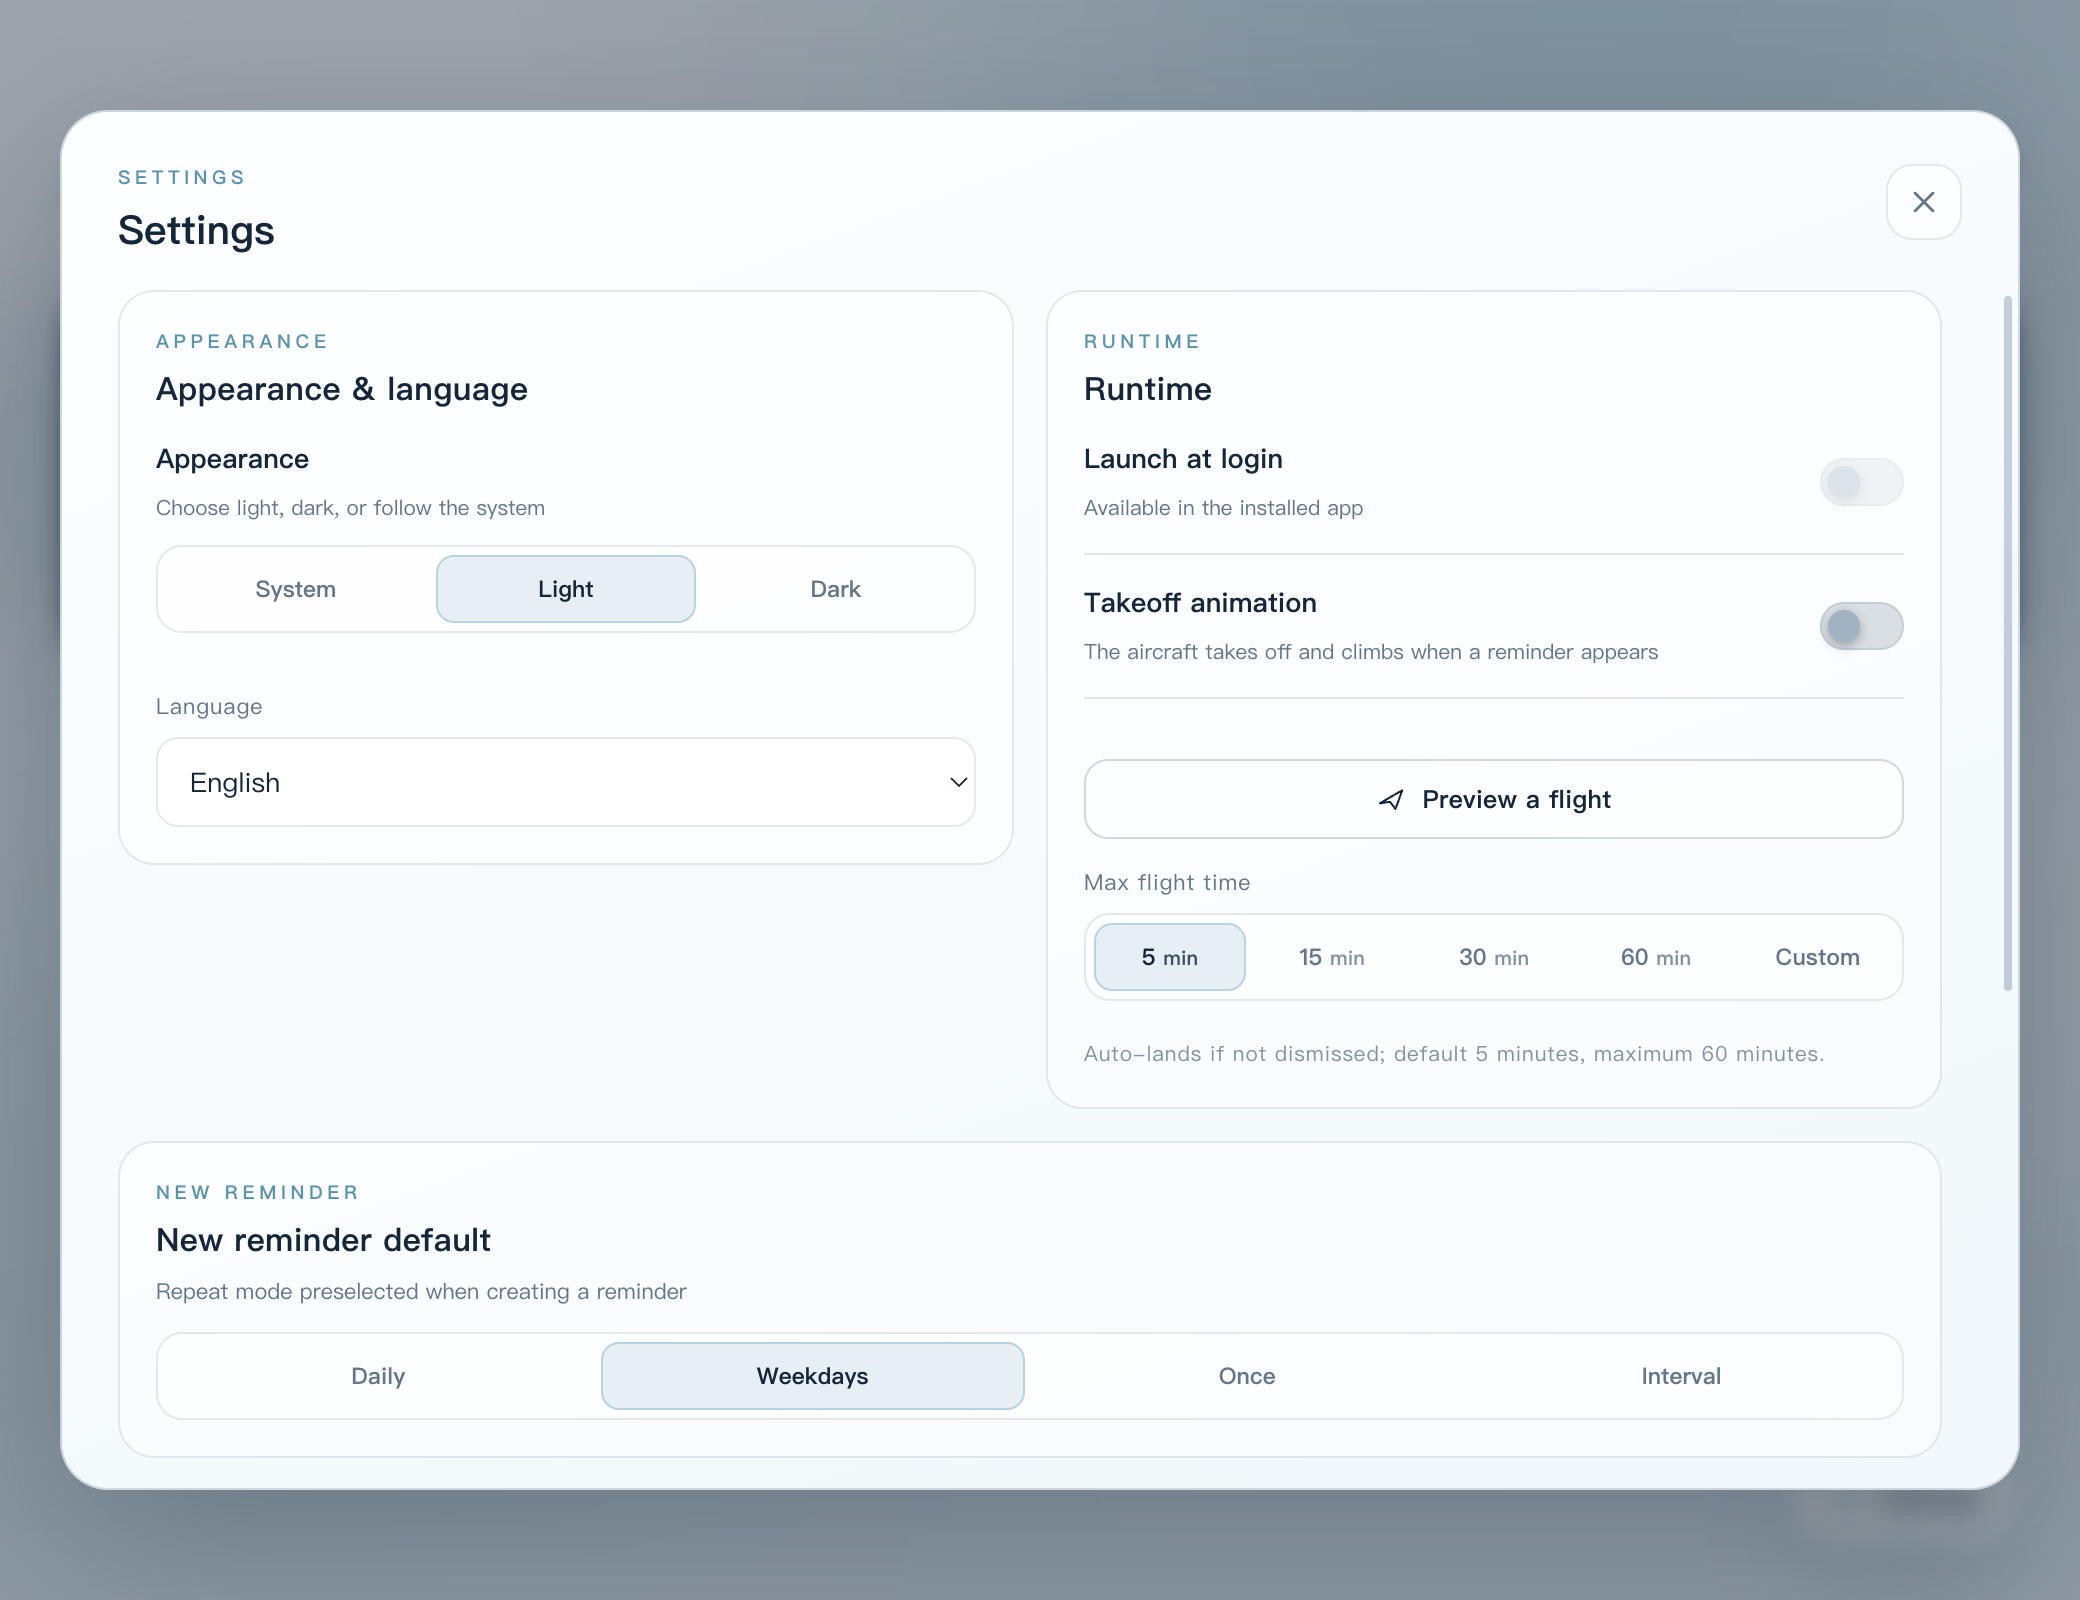
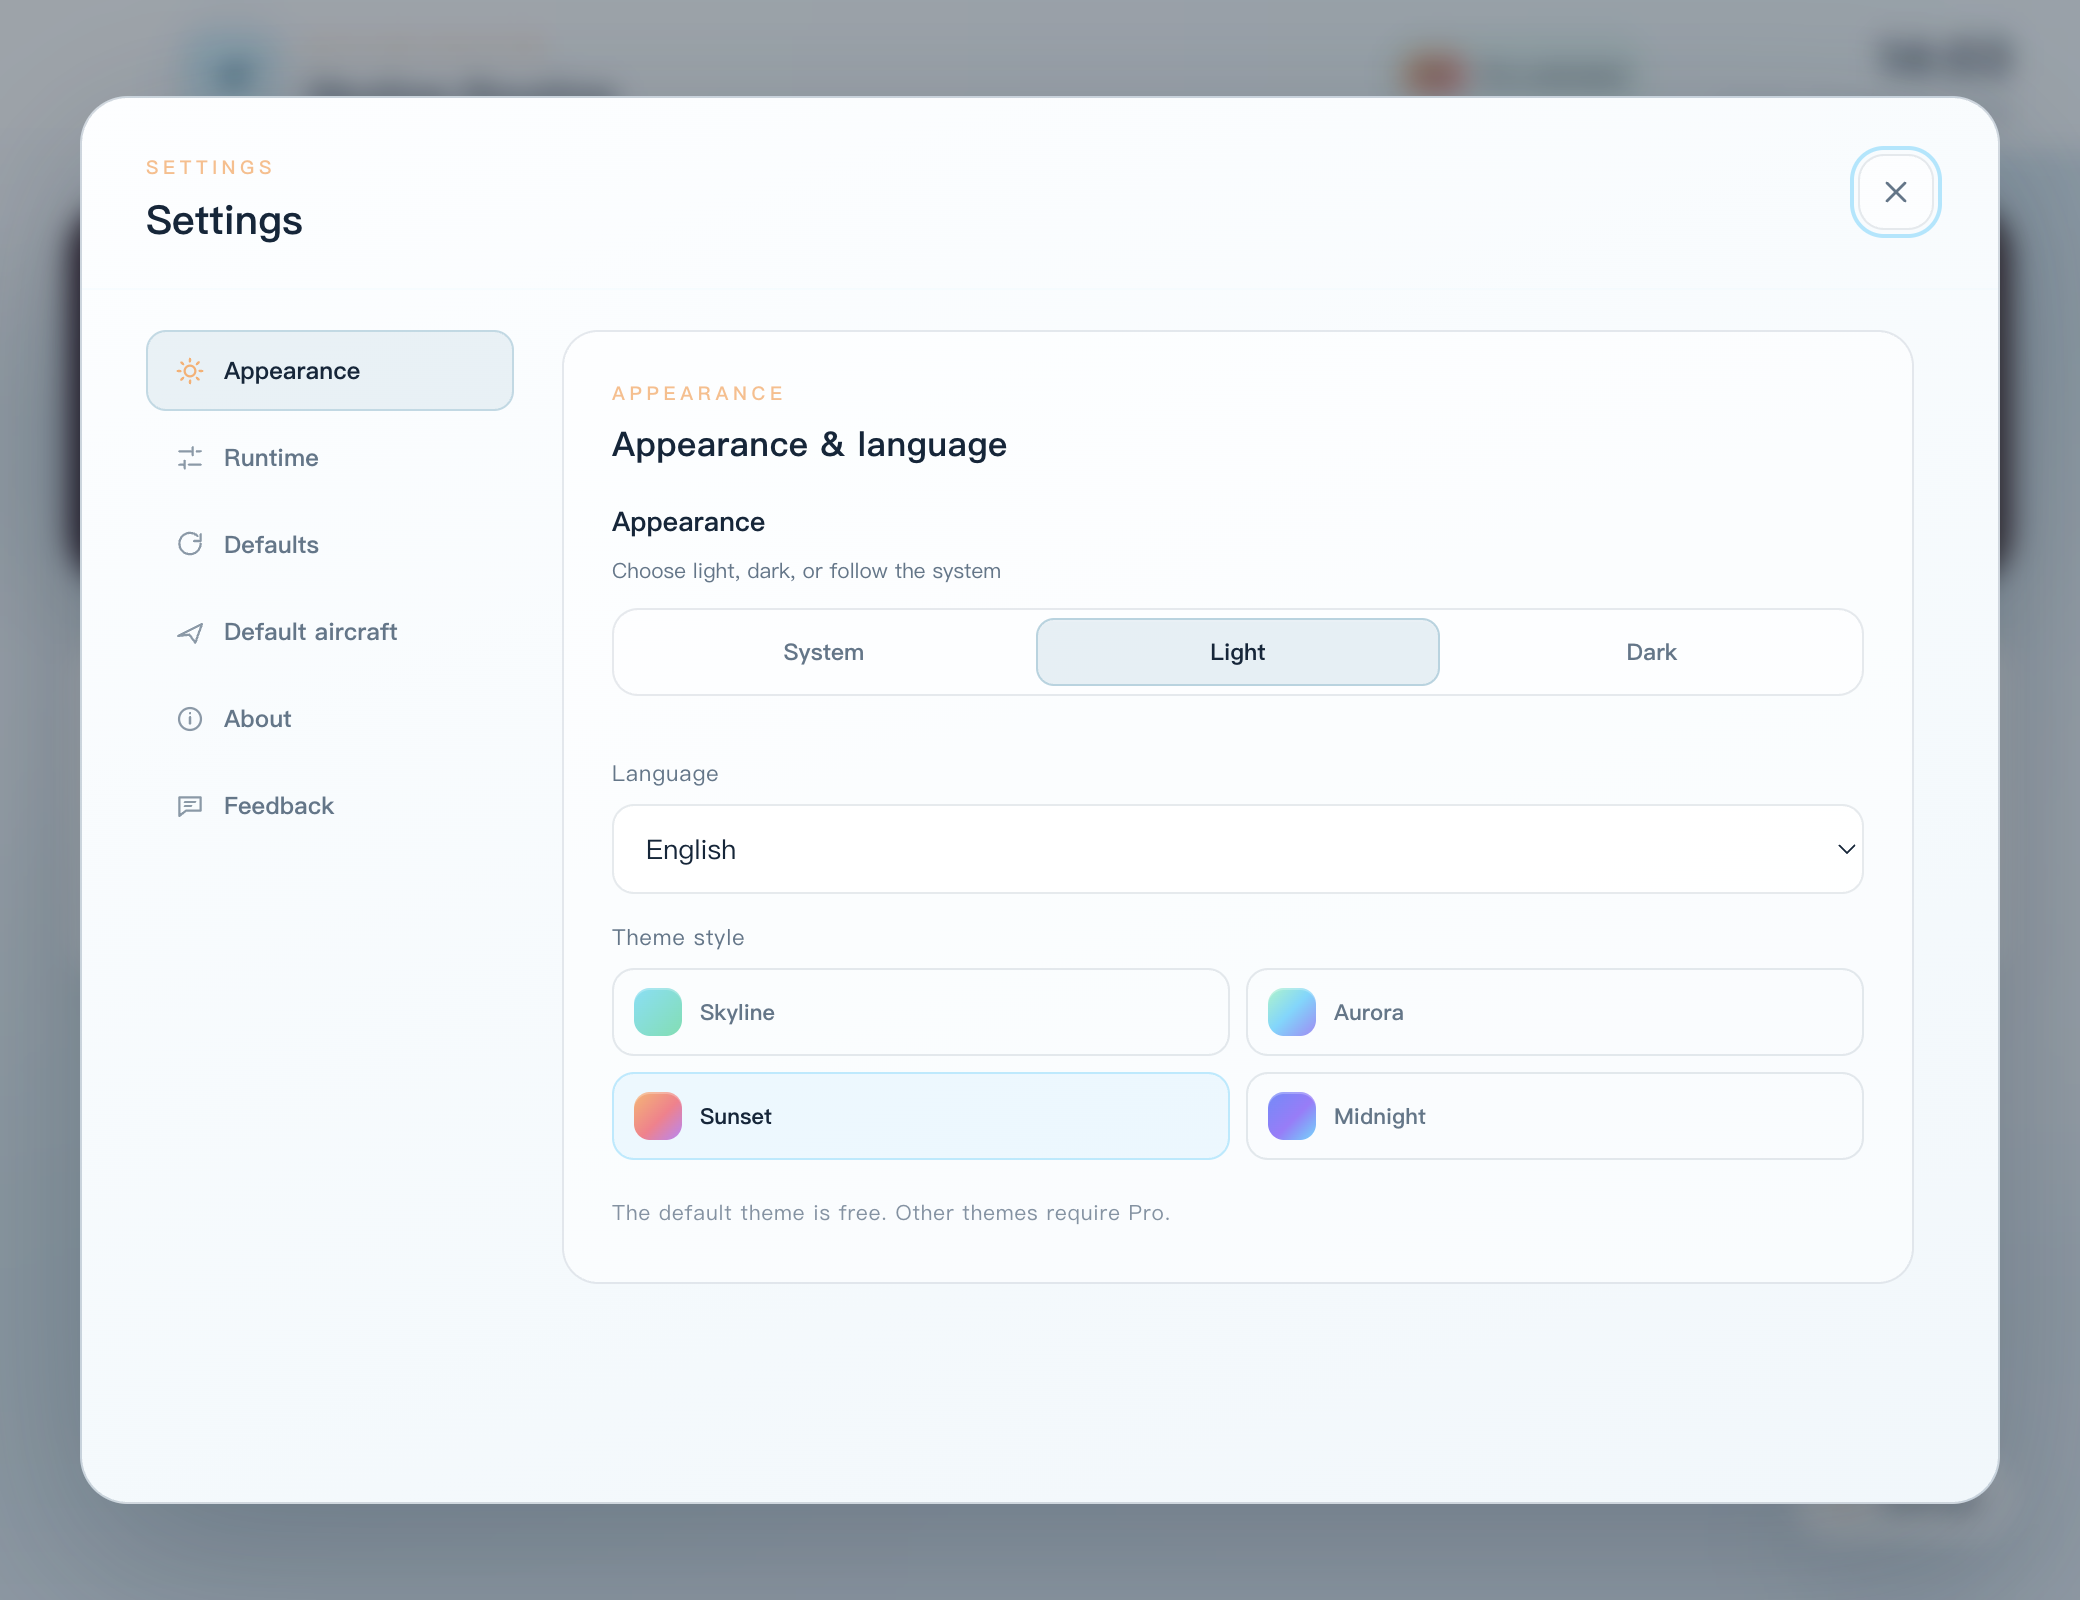
【mod】文档说明修改

diff --git a/index.html b/index.html
@@ -109,7 +109,7 @@
         <article class="feature-card">
           <span class="feature-number">03</span>
           <h2>Make it yours</h2>
-          <p>Choose from 12 aircraft styles, upload a custom image, adjust altitude, theme, and language.</p>
+          <p>Choose from 12 aircraft styles, upload a custom image, and unlock Aurora, Sunset, and Midnight themes with Pro.</p>
         </article>
         <article class="feature-card">
           <span class="feature-number">04</span>
@@ -159,10 +159,10 @@
         </div>
         <div class="screens">
           <figure class="screen-card">
-            <img src="assets/settings.png" alt="Skyline Routine settings and flight duration options" loading="eager" />
+            <img src="assets/settings.png" alt="Skyline Routine settings with flight time and Pro theme options" loading="eager" />
             <figcaption>
               <strong>Set the rules.</strong>
-              Defaults for repeat mode, altitude, aircraft, and maximum flight time.
+              Choose defaults, flight time, and a free or Pro theme style.
             </figcaption>
           </figure>
           <aside class="screen-card screen-note">
@@ -197,7 +197,8 @@
               <li>Unlimited reminders</li>
               <li>All 12 aircraft styles</li>
               <li>Custom aircraft images</li>
-              <li>All themes and supported languages</li>
+              <li>Aurora, Sunset, and Midnight themes</li>
+              <li>All supported languages</li>
               <li>Local data and automatic landing</li>
             </ul>
           </div>
@@ -213,8 +214,7 @@
           </div>
         </div>
         <p class="store-note">
-          Also available through the Microsoft Store. The Mac version is distributed
-          separately through the Mac App Store.
+          Windows 10/11 · One-time license · Local data
         </p>
       </section>
 
@@ -230,7 +230,7 @@
           </details>
           <details>
             <summary>Which systems are supported?</summary>
-            <p>Windows 10 and Windows 11, x64. The Mac version is available separately on the Mac App Store.</p>
+            <p>Windows 10 and Windows 11, x64.</p>
           </details>
           <details>
             <summary>Does it need an internet connection?</summary>
